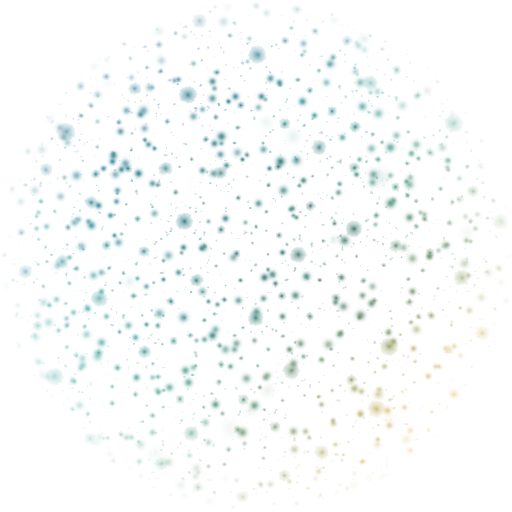
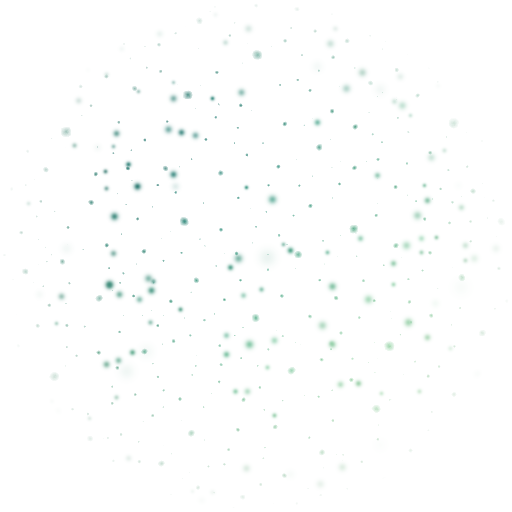
Generate the orb whole instead of assembling it
Six commits were spent tuning the relationship between layers that were
never going to agree: a colour field from one render, a grain tile over
it, three plates of particles over that, each with its own palette, its
own density and its own fade. Every fix to one of them broke another,
because the thing being copied is not layered. It is one grainy gradient.

So the orb is one generated image now. The gradient and its grain come
out of the generator together, which is why they sit right: the grain is
IN the colour rather than on it, it varies with the gradient the way
grain in a pushed photograph does, and there is no seam between a texture
layer and a colour layer because there are not two layers.

Nothing is done to that image. No lift, no saturation, no tone pass.
Every one of those turned out to be a way of walking the asset away from
what was asked for, and the neon teal and the black particles were both
mine rather than the generator's.

Downsampling it uses a 2x2 box rather than the full 1024-to-512 block. A
box filter is a low-pass and the entire point of this image is per-pixel
speckle, so a wide one hands back a smooth gradient with the texture
politely removed. That is what flattened the first render months of
commits ago. 551KB, which is what real grain costs a PNG.

The two counter-rotating copies are down to one. They existed because a
smooth wash turning once was invisible; a grainy one is not, since every
[…]

diff --git a/app/src/components/grain.tsx b/app/src/components/grain.tsx
@@ -48,6 +48,8 @@ import { colors } from "../theme";
 
 export const FIELD = require("../../assets/checkin-field.png");
 export const GRAIN = require("../../assets/checkin-grain.png");
+/* The noise tile is 128px square; the drift covers exactly one per lap. */
+const GRAIN_TILE = 128;
 
 export const ORB = 236;
 
@@ -270,12 +272,23 @@ function DustLayer({
   screen in a medical record at all.
 */
 export function GrainOrb() {
-  const spinA = useLoop(26000);
-  const spinB = useLoop(37000);
+  const spin = useLoop(62000);
   const breathe = useLoop(11000, Easing.inOut(Easing.sin));
+  const drift = useLoop(26000);
 
   return (
     <>
+      {/*
+        ONE image, turning.
+
+        There were two counter-rotating copies of the field here, the
+        second at 0.55, from back when the field was a smooth colour wash
+        and one copy turning was invisible. The field is grainy now, so a
+        single slow turn is plainly visible: every speck at radius r
+        travels a circle of radius r, which is the particle movement the
+        whole thing was for. Two grainy copies crossing each other just
+        averaged back into a smooth one.
+      */}
       <Animated.View
         style={{
           position: "absolute",
@@ -283,13 +296,10 @@ export function GrainOrb() {
           height: ORB,
           transform: [
             {
-              /*
-                0 -> 1 -> 0 across the loop, so the swell comes back on
-                itself without the jump a sawtooth would give at the seam.
-              */
+              /* 0 -> 1 -> 0, so the swell returns without a seam. */
               scale: breathe.interpolate({
                 inputRange: [0, 0.5, 1],
-                outputRange: [OVERFILL, OVERFILL + 0.15, OVERFILL],
+                outputRange: [OVERFILL, OVERFILL + 0.12, OVERFILL],
               }),
             },
           ],
@@ -301,37 +311,43 @@ export function GrainOrb() {
             position: "absolute",
             width: ORB,
             height: ORB,
-            transform: [{ rotate: spinTo(spinA, 360) }],
-          }}
-        />
-        <Animated.Image
-          source={FIELD}
-          style={{
-            position: "absolute",
-            width: ORB,
-            height: ORB,
-            opacity: 0.55,
-            transform: [{ rotate: spinTo(spinB, -360) }],
+            transform: [{ rotate: spinTo(spin, 360) }],
           }}
         />
       </Animated.View>
 
       {/*
-        A floor under the moving particles, and only that.
+        A second speckle, drifting across the first.
 
-        It was at 0.38, which made the still layer compete with the moving
-        one instead of supporting it. Held down to 0.16 it does what it is
-        for: stops the field reading as flat colour between specks.
+        The baked grain turns with the image, so near the middle it barely
+        moves: a circle of radius zero is a point. This slides the whole
+        way across instead, which gives the centre something to do, and
+        running it against the rotation keeps the two from ever agreeing.
+
+        Pure per-pixel noise tiles seamlessly on its own -- there is no
+        structure in it to line up -- so the drift only has to cover one
+        tile per lap for the wrap to be invisible.
       */}
-      <Image
+      <Animated.Image
         source={GRAIN}
         resizeMode="repeat"
-        style={{ position: "absolute", width: ORB, height: ORB, opacity: 0.16 }}
+        style={{
+          position: "absolute",
+          width: ORB,
+          height: ORB,
+          opacity: 0.3,
+          transform: [
+            { translateX: drift.interpolate({ inputRange: [0, 1], outputRange: [0, GRAIN_TILE] }) },
+            { translateY: drift.interpolate({ inputRange: [0, 1], outputRange: [0, -GRAIN_TILE] }) },
+          ],
+        }}
       />
 
       <Svg width={ORB} height={ORB} style={{ position: "absolute" }} pointerEvents="none">
         <Defs>
           <RadialGradient id="orbFeather" cx="50%" cy="50%" r="50%">
+            {/* These stops are mirrored in mkorb.js, which fades the burst
+                particles on the same curve. Change both or neither. */}
             <Stop offset="0.66" stopColor={colors.bg} stopOpacity={0} />
             <Stop offset="0.87" stopColor={colors.bg} stopOpacity={0.5} />
             <Stop offset="1" stopColor={colors.bg} stopOpacity={1} />
@@ -348,21 +364,6 @@ export function GrainOrb() {
   );
 }
 
-/* -------------------------------------------------------------- backdrop */
-
-/*
-  The backdrop the check-in flow sits on.
-
-  The flow is what the orb opens, so it should look like the inside of the
-  orb rather than a plain sheet that happened to appear: the same colour
-  field turning above the top edge, the same noise tile, and the same
-  particles still drifting, as though the ones that scattered off the orb
-  carried on into here.
-
-  The colour is held to a tint, and the reason is contrast rather than
-  taste: the title is 32pt of near-black over this and the chips below it
-  carry real state, so none of it may end up sitting on a patch of gold.
-*/
 export function GrainWash() {
   const { width, height } = useWindowDimensions();
   const spin = useLoop(44000);
